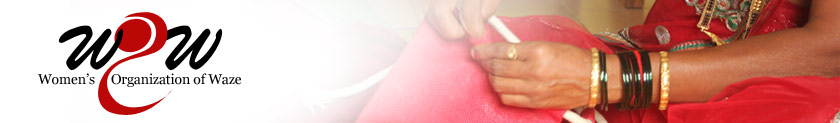
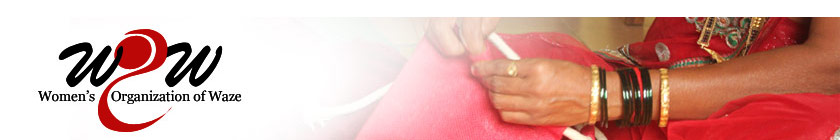
Changes to the pages for final text

diff --git a/app/assets/stylesheets/style.css b/app/assets/stylesheets/style.css
@@ -106,6 +106,8 @@ textarea{
 table{
     cellpadding:10px;
     margin-bottom: 20px;
+  border-collapse: collapse;
+  border-spacing: 0;
 }
 
 
@@ -146,16 +148,15 @@ table{
     -webkit-border-radius: 0px 0px 5px 5px;
 }
 
-.banner
-{
-    width:840px;
-    height:123px;
-    background-image:url('logo_WOW.png');
-    background-repeat:no-repeat;
-    text-align:right;
-    font-size:10px;
-    color:#666666;
-    margin:0px auto;
+.banner {
+	width:840px;
+	height:140px;
+	background-image:url('banner_main.jpg');
+	background-repeat:no-repeat;
+	text-align:right;
+	font-size:10px;
+	color:#666666;
+	margin:0px auto;
 }
 .slideshow
 {
@@ -243,13 +244,13 @@ nav
     width:265px;
     float:right;
     padding-left:14px;
-    font-size:14px;
+    font-size:12px;
     border-left: thin #666666;
 
 }
 .homecontact a
 {
-    font-size:14px;
+    font-size:12px;
 }
 
 
@@ -464,6 +465,22 @@ tr.alt_row
     vertical-align:middle;
     padding-top:20px;
 }
+
+.btn_inner_toolbar {
+    width:278px;
+    height:40px;
+    float:left;
+    font-size:20px;
+    color:#FFFFFF;
+    text-align:center;
+    vertical-align:middle;
+    text-decoration: none;
+}
+
+div.mainnav_sm a:hover{
+    text-decoration:none;
+}
+
 .prod_page {
     width:840px;
     margin:0px auto;

diff --git a/app/assets/stylesheets/style-catalogue.css b/app/assets/stylesheets/style-catalogue.css
@@ -125,16 +125,7 @@ table {
 
 
 /*main banner homepage*/
-.banner {
-    width:840px;
-    height:123px;
-    background-image:url('logo_WOW.png');
-    background-repeat:no-repeat;
-    text-align:right;
-    font-size:10px;
-    color:#666666;
-    margin:0px auto;
-}
+
 a {
     text-decoration:underline;
     font-size:10px;
@@ -149,19 +140,19 @@ header {
 
 /* --- internal page small banner */
 .banner_sm {
-    width:840px;
-    height:123px;
-    background-image:url('banner_sm.jpg');
-    background-repeat:no-repeat;
-    text-align:right;
-    font-size:10px;
-    color:#FFFFFF;
-    margin:0px auto;
+	width:840px;
+	height:140px;
+	background-image:url('banner_sm.jpg');
+	background-repeat:no-repeat;
+	text-align:right;
+	font-size:10px;
+	color:#666666;
+	margin:0px auto;
 }
 .banner_sm a {
-    text-decoration:underline;
-    font-size:10px;
-    color:#ffffff;
+	text-decoration:underline;
+	font-size:10px;
+	color:#666666;
 }
 
 /* home page banner */
